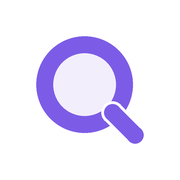
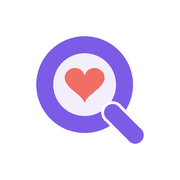
アイコンを、Q の輪の中にハート（Q とハートを組み合わせた形）に。横長のロゴはそのまま。読みこみに ?v=2

Changed region(s): [[0.3333, 0.3611, 0.5833, 0.5833]]

diff --git a/index.html b/index.html
@@ -21,9 +21,9 @@
 <meta name="theme-color" content="#f5f4f9" media="(prefers-color-scheme: light)">
 <meta name="theme-color" content="#16151a" media="(prefers-color-scheme: dark)">
 <!-- アイコン・ロゴ・OGP は おくるん（q-oqrn）の shared/qlove/ からコピーしたもの -->
-<link rel="icon" href="icon.svg" type="image/svg+xml">
-<link rel="icon" href="icon-32.png" type="image/png" sizes="32x32">
-<link rel="apple-touch-icon" href="apple-touch-icon.png">
+<link rel="icon" href="icon.svg?v=2" type="image/svg+xml">
+<link rel="icon" href="icon-32.png?v=2" type="image/png" sizes="32x32">
+<link rel="apple-touch-icon" href="apple-touch-icon.png?v=2">
 <link rel="preconnect" href="https://fonts.googleapis.com">
 <link href="https://fonts.googleapis.com/css2?family=M+PLUS+Rounded+1c:wght@400;700;800&display=swap" rel="stylesheet">
 <!-- Q キット（おくるんの共通部品）。Qlove の色はおくるんと同じ紫なので、ほぼそのまま -->
@@ -33,7 +33,7 @@
 <body>
 <main class="ls-page ls-stack">
   <header class="ls-brand">
-    <h1 class="ls-brand-name"><img class="ls-brand-icon" src="icon.svg" alt="" width="30" height="30">くらぶ</h1>
+    <h1 class="ls-brand-name"><img class="ls-brand-icon" src="icon.svg?v=2" alt="" width="30" height="30">くらぶ</h1>
     <picture>
       <source srcset="logo-dark.svg" media="(prefers-color-scheme: dark)">
       <img class="ls-brand-logo" src="logo.svg" alt="Qlove" width="78" height="28">
@@ -64,9 +64,9 @@
     <section class="club" id="club-sports"><h2 class="club-head">💪 たいいく部 〜taiiQ部〜</h2><p class="club-desc">練習・試合・記録を、チームや仲間と</p><ul class="q-list"><li class="q-card" style="--q: #C96A2D"><a class="q-main" href="https://liff.line.me/2009927582-2isjfmkk"><img src="https://katsuan.github.io/line-workout-share/icon.svg" alt="" width="48" height="48" loading="lazy"><span class="q-body"><span class="q-name">キロっく <small>kiloQ</small><span class="q-also">兼部</span></span><span class="q-copy">キロを刻んで、記録を積もう</span><span class="q-lead">筋トレの記録を、カードにして送れる</span></span></a></li><li class="q-card" style="--q: #2E8B4A"><a class="q-main" href="https://katsuan.github.io/soccer/"><img src="https://katsuan.github.io/soccer/icon.svg" alt="" width="48" height="48" loading="lazy"><span class="q-body"><span class="q-name">さくせん盤 <small>SAQSEN</small></span><span class="q-copy">描いて、伝えて、勝ちにいこう</span><span class="q-lead">スタメン・作戦・試合結果を、カードにして送れる</span></span></a><a class="q-next" href="https://katsuan.github.io/score-recorder/"><span aria-hidden="true">→</span><span>つぎに <b>ろくが</b>：試合を、得点板つきで録画する</span></a></li><li class="q-card" style="--q: #E53935"><a class="q-main" href="https://katsuan.github.io/score-recorder/"><img src="https://katsuan.github.io/score-recorder/icon.svg" alt="" width="48" height="48" loading="lazy"><span class="q-body"><span class="q-name">ろくが <small>RoQga</small></span><span class="q-copy">撮った試合も、取った点も、とっておき</span><span class="q-lead">試合をスマホで撮りながら、得点板も動画に残せる</span></span></a><a class="q-next" href="https://katsuan.github.io/soccer/"><span aria-hidden="true">→</span><span>つぎに <b>さくせん盤</b>：スタメンや試合結果を、カードで送る</span></a></li></ul></section>
     <section class="club" id="club-habit"><h2 class="club-head">🔥 けいぞく部 〜keizoQ部〜</h2><p class="club-desc">毎日の「できた」を、つみかさね</p><ul class="q-list"><li class="q-card" style="--q: #EBAA00"><a class="q-main" href="https://katsuan.github.io/pomodoro/"><img src="https://katsuan.github.io/pomodoro/icon.svg" alt="" width="48" height="48" loading="lazy"><span class="q-body"><span class="q-name">ぽもくる <small>PomoQ</small></span><span class="q-copy">集中、休憩、くるくる回そう</span><span class="q-lead">集中と休憩を、くるくるくり返すタイマー</span></span></a></li><li class="q-card" style="--q: #2F80D8"><a class="q-main" href="https://katsuan.github.io/tuzuq/"><img src="https://katsuan.github.io/tuzuq/icon.svg" alt="" width="48" height="48" loading="lazy"><span class="q-body"><span class="q-name">つづく <small>TuZuQ</small></span><span class="q-copy">きょうのできたが、あしたにつづく</span><span class="q-lead">できた日に丸を押すだけの、習慣カレンダー</span></span></a><a class="q-next" href="https://liff.line.me/2009927582-2isjfmkk"><span aria-hidden="true">→</span><span>つぎに <b>キロっく</b>：筋トレを記録すると、つづくで自動でチェック</span></a></li><li class="q-card" style="--q: #EC8A16"><a class="q-main" href="https://katsuan.github.io/shoquji/"><img src="https://katsuan.github.io/shoquji/icon.svg" alt="" width="48" height="48" loading="lazy"><span class="q-body"><span class="q-name">しょくじ <small>ShoQuji</small></span><span class="q-copy">食べたら、ぱっと残そう</span><span class="q-lead">食べたものとカロリー・PFC を、さっと記録</span></span></a><a class="q-next" href="https://katsuan.github.io/tuzuq/"><span aria-hidden="true">→</span><span>つぎに <b>つづく</b>：記録した日に、つづくで自動でチェック</span></a></li><li class="q-card" style="--q: #C96A2D"><a class="q-main" href="https://liff.line.me/2009927582-2isjfmkk"><img src="https://katsuan.github.io/line-workout-share/icon.svg" alt="" width="48" height="48" loading="lazy"><span class="q-body"><span class="q-name">キロっく <small>kiloQ</small><span class="q-also">兼部</span></span><span class="q-copy">キロを刻んで、記録を積もう</span><span class="q-lead">筋トレの記録を、カードにして送れる</span></span></a></li></ul></section>
     <section class="club" id="club-family"><h2 class="club-head">🏠 かぞく部 〜kazoQ部〜</h2><p class="club-desc">家族の記念日と、育ちの記録に</p><ul class="q-list"><li class="q-card" style="--q: #6C47FF"><a class="q-main" href="https://katsuan.github.io/countdown/create.html"><img src="https://katsuan.github.io/countdown/icon.svg" alt="" width="48" height="48" loading="lazy"><span class="q-body"><span class="q-name">くろのす <small>Qronos</small></span><span class="q-copy">指折り数えて、大切な日を待とう</span><span class="q-lead">記念日まで「あと何日？」をいつでも</span></span></a><a class="q-next" href="https://katsuan.github.io/suqsuq/"><span aria-hidden="true">→</span><span>つぎに <b>すくすく</b>：生まれた日・記念日から◯日目を、写真に入れて残す</span></a></li><li class="q-card" style="--q: #E9735A"><a class="q-main" href="https://katsuan.github.io/suqsuq/"><img src="https://katsuan.github.io/suqsuq/icon.svg" alt="" width="48" height="48" loading="lazy"><span class="q-body"><span class="q-name">すくすく <small>SuQSuQ</small></span><span class="q-copy">すくすく、まいにちが記念日</span><span class="q-lead">生後◯日・妊娠◯週・記念日から◯日を、写真や動画に入れて残せる</span></span></a><a class="q-next" href="https://katsuan.github.io/countdown/create.html"><span aria-hidden="true">→</span><span>つぎに <b>くろのす</b>：誕生日や記念日まで「あと何日？」を数える</span></a></li><li class="q-card" style="--q: #9B7FD1"><a class="q-main" href="https://katsuan.github.io/gender-reveal/create.html"><img src="https://katsuan.github.io/gender-reveal/icon.svg" alt="" width="48" height="48" loading="lazy"><span class="q-body"><span class="q-name">ジェンダーリビール <small>BabyQ</small></span><span class="q-copy">赤ちゃんの秘密を、みんなの喜びに</span><span class="q-lead">赤ちゃんの性別を、プレゼントを開けて発表</span></span></a><a class="q-next" href="https://katsuan.github.io/countdown/create.html"><span aria-hidden="true">→</span><span>つぎに <b>くろのす</b>：生まれる日まで「あと何日？」を数える</span></a></li><li class="q-card" style="--q: #12A0B0"><a class="q-main" href="https://katsuan.github.io/yuqsaki/"><img src="https://katsuan.github.io/yuqsaki/icon.svg" alt="" width="48" height="48" loading="lazy"><span class="q-body"><span class="q-name">ゆくさき <small>YuQsaki</small></span><span class="q-copy">ゆく先を、ひとつのしおりに</span><span class="q-lead">予定・場所・持ち物を、1つのしおりに</span></span></a><a class="q-next" href="https://katsuan.github.io/countdown/create.html"><span aria-hidden="true">→</span><span>つぎに <b>くろのす</b>：出発の日まで「あと何日？」を数える</span></a></li></ul></section>
-    <section class="club" id="club-daily"><h2 class="club-head">👾 きたく部 〜kitaQ部〜</h2><p class="club-desc">ちょっとしたあそびと、毎日のおたのしみに</p><ul class="q-list"><li class="q-card" style="--q: #E23E4A"><a class="q-main" href="https://katsuan.github.io/qji/"><img src="https://katsuan.github.io/qji/icon.svg" alt="" width="48" height="48" loading="lazy"><span class="q-body"><span class="q-name">くじ <small>Qji</small></span><span class="q-copy">迷ったら、くじで決めよう</span><span class="q-lead">当番・順番・お題・罰ゲームを、その場で公平に</span></span></a><a class="q-next" href="https://katsuan.github.io/soccer/"><span aria-hidden="true">→</span><span>つぎに <b>さくせん盤</b>：チームが決まったら、スタメンを作って送る</span></a></li><li class="q-card" style="--q: #14542E"><a class="q-main" href="https://liff.line.me/2009927876-PcLT1IYA"><img src="https://katsuan.github.io/line-p2p-othello/assets/icon.svg" alt="" width="48" height="48" loading="lazy"><span class="q-body"><span class="q-name">ひっくり <small>HiQRi</small></span><span class="q-copy">ひっくり返せ、その一手</span><span class="q-lead">LINE の友だちと、石をひっくり返して対戦</span></span></a></li><li class="q-card" style="--q: #EBAA00"><a class="q-main" href="https://katsuan.github.io/soraqru/"><img src="https://katsuan.github.io/soraqru/icon.svg" alt="" width="48" height="48" loading="lazy"><span class="q-body"><span class="q-name">そらくる <small>SoraQru</small></span><span class="q-copy">空のごきげん、先どり</span><span class="q-lead">今日・明日の天気と、気圧の変化の目安をひと目で</span></span></a></li></ul></section>
+    <section class="club" id="club-daily"><h2 class="club-head">👾 きたく部 〜kitaQ部〜</h2><p class="club-desc">ちょっとしたあそびと、毎日のおたのしみに</p><ul class="q-list"><li class="q-card" style="--q: #E23E4A"><a class="q-main" href="https://katsuan.github.io/qji/"><img src="https://katsuan.github.io/qji/icon.svg" alt="" width="48" height="48" loading="lazy"><span class="q-body"><span class="q-name">くじ <small>Qji</small></span><span class="q-copy">迷ったら、くじで決めよう</span><span class="q-lead">当番・順番・お題・罰ゲームを、その場で公平に</span></span></a><a class="q-next" href="https://katsuan.github.io/soccer/"><span aria-hidden="true">→</span><span>つぎに <b>さくせん盤</b>：チームが決まったら、スタメンを作って送る</span></a></li><li class="q-card" style="--q: #14542E"><a class="q-main" href="https://liff.line.me/2009927876-PcLT1IYA"><img src="https://katsuan.github.io/line-p2p-othello/assets/icon.svg" alt="" width="48" height="48" loading="lazy"><span class="q-body"><span class="q-name">ひっくり <small>HiQRi</small></span><span class="q-copy">ひっくり返せ、その一手</span><span class="q-lead">LINE の友だちと、石をひっくり返して対戦</span></span></a></li><li class="q-card" style="--q: #EBAA00"><a class="q-main" href="https://katsuan.github.io/soraqru/"><img src="https://katsuan.github.io/soraqru/icon.svg" alt="" width="48" height="48" loading="lazy"><span class="q-body"><span class="q-name">そらくる <small>SoraQru</small></span><span class="q-copy">空のごきげん、先どり</span><span class="q-lead">今日・明日の天気と、気圧の変化の目安をひと目で</span></span></a><a class="q-next" href="https://katsuan.github.io/yuqsaki/"><span aria-hidden="true">→</span><span>つぎに <b>ゆくさき</b>：おでかけの予定をしおりに。行き先の天気もすぐ見られる</span></a></li></ul></section>
   </div>
-  <script type="application/json" id="hubSnapshot">{"title":"くらぶ 〜Qlove〜","logo":{"src":"./shared/qlove/logo.svg","dark":"./shared/qlove/logo-dark.svg","caption":"くらぶ"},"color":"#6C47FF","lead":"くらしの部室","groups":[{"key":"sports","label":"💪 たいいく部 〜taiiQ部〜","desc":"練習・試合・記録を、チームや仲間と"},{"key":"habit","label":"🔥 けいぞく部 〜keizoQ部〜","desc":"毎日の「できた」を、つみかさね"},{"key":"family","label":"🏠 かぞく部 〜kazoQ部〜","desc":"家族の記念日と、育ちの記録に"},{"key":"daily","label":"👾 きたく部 〜kitaQ部〜","desc":"ちょっとしたあそびと、毎日のおたのしみに"}],"items":[{"key":"kiloq","icon":"🏋","appIcon":"https://katsuan.github.io/line-workout-share/icon.svg","name":"キロっく","en":"kiloQ","copy":"キロを刻んで、記録を積もう","desc":"筋トレの記録をカードで送る","url":"https://liff.line.me/2009927582-2isjfmkk","color":"#C96A2D","ogp":"https://katsuan.github.io/line-workout-share/ogp.png?v=20261019","lead":"筋トレの記録を、カードにして送れる","intro":"種目・重さ・回数を入れるだけ。推定 1RM も出て、よくやるメニューは保存しておけます。","group":"sports","also":["habit"]},{"key":"qji","icon":"🎟","appIcon":"https://katsuan.github.io/qji/icon.svg","name":"くじ","en":"Qji","copy":"迷ったら、くじで決めよう","desc":"くじ・あみだ・お題を決める","url":"https://katsuan.github.io/qji/","color":"#E23E4A","ogp":"https://katsuan.github.io/qji/ogp.png?v=20261019","lead":"当番・順番・お題・罰ゲームを、その場で公平に","intro":"くじ引き・あみだくじ・ルーレット・数字・会話のお題・罰ゲームを決めて、結果を LINE にカードで送れます。","group":"daily","next":{"key":"saqsen","why":"チームが決まったら、スタメンを作って送る"}},{"key":"saqsen","icon":"⚽","appIcon":"https://katsuan.github.io/soccer/icon.svg","name":"さくせん盤","en":"SAQSEN","copy":"描いて、伝えて、勝ちにいこう","desc":"スタメン・作戦・結果を送る","url":"https://katsuan.github.io/soccer/","color":"#2E8B4A","ogp":"https://katsuan.github.io/soccer/ogp.png?v=20261019","lead":"スタメン・作戦・試合結果を、カードにして送れる","intro":"選手をピッチに並べて作戦盤に。スタメン発表や試合結果も、LINE のカードにしてチームに送れます。","group":"sports","next":{"key":"roqga","why":"試合を、得点板つきで録画する"}},{"key":"roqga","icon":"📹","appIcon":"https://katsuan.github.io/score-recorder/icon.svg","name":"ろくが","en":"RoQga","copy":"撮った試合も、取った点も、とっておき","desc":"得点板つきで試合を録画","url":"https://katsuan.github.io/score-recorder/","color":"#2E8B4A","qColor":"#E53935","ogp":"https://katsuan.github.io/score-recorder/ogp.png?v=20261022b","lead":"試合をスマホで撮りながら、得点板も動画に残せる","intro":"チーム名とスコアを映像に重ねて録画。LINE で送れるよう5分ごとに区切れて、動画は端末にだけ保存します。","group":"sports","next":{"key":"saqsen","why":"スタメンや試合結果を、カードで送る"}},{"key":"pomoq","icon":"🍅","appIcon":"https://katsuan.github.io/pomodoro/icon.svg","name":"ぽもくる","en":"PomoQ","copy":"集中、休憩、くるくる回そう","desc":"集中と休憩をくり返すタイマー","url":"https://katsuan.github.io/pomodoro/","color":"#4D4D4D","qColor":"#EBAA00","ogp":"https://katsuan.github.io/pomodoro/ogp.png?v=20261019","lead":"集中と休憩を、くるくるくり返すタイマー","intro":"時計の時刻に合わせて、作業 25 分・休憩 5 分をくり返すポモドーロタイマーです。","group":"habit"},{"key":"hiqri","icon":"👾","appIcon":"https://katsuan.github.io/line-p2p-othello/assets/icon.svg","name":"ひっくり","en":"HiQRi","copy":"ひっくり返せ、その一手","desc":"友だちとオセロで対戦","url":"https://liff.line.me/2009927876-PcLT1IYA","color":"#14542E","ogp":"https://katsuan.github.io/line-p2p-othello/assets/ogp.png?v=20261019","lead":"LINE の友だちと、石をひっくり返して対戦","intro":"LINE で招待してそれぞれの端末で通信対戦。COM との練習や、問題に正解すると石を置ける教養モードも。","group":"daily"},{"key":"tuzuq","icon":"✅","appIcon":"https://katsuan.github.io/tuzuq/icon.svg","name":"つづく","en":"TuZuQ","copy":"きょうのできたが、あしたにつづく","desc":"できた日に丸を押す習慣カレンダー","url":"https://katsuan.github.io/tuzuq/","line":"https://liff.line.me/2012187502-o87l8Esu","lineWhy":"自分の記録ボット（GAS）とつなぐと、チェックが自分の Google シートにも残ります。ブラウザ版だけの記録は、履歴を消したり機種を変えたりすると消えることがあります","color":"#2F80D8","ogp":"https://katsuan.github.io/tuzuq/ogp.png?v=5","lead":"できた日に丸を押すだけの、習慣カレンダー","intro":"何日つづいたか・ひと月のチェックがひと目でわかります。食事や筋トレの記録（しょくじ・キロっく）とつなぐと、記録した日に自動でチェック。自分の記録ボットや GitHub の草にもつなげられます。","group":"habit","next":{"key":"kiloq","why":"筋トレを記録すると、つづくで自動でチェック"}},{"key":"shoquji","icon":"🍚","appIcon":"https://katsuan.github.io/shoquji/icon.svg","name":"しょくじ","en":"ShoQuji","copy":"食べたら、ぱっと残そう","desc":"食べたものとカロリーを記録する","url":"https://katsuan.github.io/shoquji/","line":"https://liff.line.me/2010088825-CulmmaFc","lineWhy":"食事記録ボットのシートにも残ります。ブラウザ版だけの記録は、履歴を消したり機種を変えたりすると消えることがあります","color":"#EC8A16","ogp":"https://katsuan.github.io/shoquji/ogp.png?v=4","lead":"食べたものとカロリー・PFC を、さっと記録","intro":"前に食べたものはボタンひとつで。1日の合計と1週間のふりかえりが見られて、カードにして送れます。","group":"habit","next":{"key":"tuzuq","why":"記録した日に、つづくで自動でチェック"}},{"key":"soraqru","icon":"🌤","appIcon":"https://katsuan.github.io/soraqru/icon.svg","name":"そらくる","en":"SoraQru","copy":"空のごきげん、先どり","desc":"今日・明日の天気と気圧の変化の目安","url":"https://katsuan.github.io/soraqru/","color":"#3A56D6","qColor":"#EBAA00","ogp":"https://katsuan.github.io/soraqru/ogp.png?v=1","lead":"今日・明日の天気と、気圧の変化の目安をひと目で","intro":"気圧が大きく変わる時間を、時間ごとの色の帯で。実家・職場など地点を切りかえて、LINE にカードで送れます。","group":"daily"},{"key":"qronos","icon":"⏳","appIcon":"https://katsuan.github.io/countdown/icon.svg","name":"くろのす","en":"Qronos","copy":"指折り数えて、大切な日を待とう","desc":"記念日まであと何日？を送る","url":"https://katsuan.github.io/countdown/create.html","color":"#6C47FF","ogp":"https://katsuan.github.io/countdown/ogp.png?v=20261019","lead":"記念日まで「あと何日？」をいつでも","intro":"誕生日・記念日・旅行の日までを数えるページを作って、LINE にカードで送れます。","group":"family","next":{"key":"suqsuq","why":"生まれた日・記念日から◯日目を、写真に入れて残す"}},{"key":"suqsuq","icon":"🌱","appIcon":"https://katsuan.github.io/suqsuq/icon.svg","name":"すくすく","en":"SuQSuQ","copy":"すくすく、まいにちが記念日","desc":"「生後◯日」「記念日から◯日」を写真に","url":"https://katsuan.github.io/suqsuq/","color":"#E9735A","ogp":"https://katsuan.github.io/suqsuq/ogp.png?v=20261023","lead":"生後◯日・妊娠◯週・記念日から◯日を、写真や動画に入れて残せる","intro":"カメラで撮るだけで「生まれて100日」の文字が入ります。文字の形やスタンプを選べて、節目はカレンダーでお知らせ。","group":"family","next":{"key":"qronos","why":"誕生日や記念日まで「あと何日？」を数える"}},{"key":"babyq","icon":"🐣","appIcon":"https://katsuan.github.io/gender-reveal/icon.svg","name":"ジェンダーリビール","short":"BabyQ","en":"BabyQ","copy":"赤ちゃんの秘密を、みんなの喜びに","desc":"赤ちゃんの性別をプレゼントで発表","url":"https://katsuan.github.io/gender-reveal/create.html","color":"#9B7FD1","ogp":"https://katsuan.github.io/gender-reveal/ogp-create.png?v=20261019","lead":"赤ちゃんの性別を、プレゼントを開けて発表","intro":"性別を選ぶだけで、家族に送れるドキドキの発表ページができます。","group":"family","next":{"key":"qronos","why":"生まれる日まで「あと何日？」を数える"}},{"key":"yuqsaki","icon":"🧳","appIcon":"https://katsuan.github.io/yuqsaki/icon.svg","name":"ゆくさき","en":"YuQsaki","copy":"ゆく先を、ひとつのしおりに","desc":"旅とおでかけのしおりを作る","url":"https://katsuan.github.io/yuqsaki/","color":"#12A0B0","ogp":"https://katsuan.github.io/yuqsaki/ogp.png?v=1","lead":"予定・場所・持ち物を、1つのしおりに","intro":"日ごとの予定と持ち物をまとめて、リンクで家族や友だちに渡せます。出発まで「あと◯日」も。","group":"family","next":{"key":"qronos","why":"出発の日まで「あと何日？」を数える"}}]}</script>
+  <script type="application/json" id="hubSnapshot">{"title":"くらぶ 〜Qlove〜","logo":{"src":"./shared/qlove/logo.svg","dark":"./shared/qlove/logo-dark.svg","caption":"くらぶ"},"color":"#6C47FF","lead":"くらしの部室","groups":[{"key":"sports","label":"💪 たいいく部 〜taiiQ部〜","desc":"練習・試合・記録を、チームや仲間と"},{"key":"habit","label":"🔥 けいぞく部 〜keizoQ部〜","desc":"毎日の「できた」を、つみかさね"},{"key":"family","label":"🏠 かぞく部 〜kazoQ部〜","desc":"家族の記念日と、育ちの記録に"},{"key":"daily","label":"👾 きたく部 〜kitaQ部〜","desc":"ちょっとしたあそびと、毎日のおたのしみに"}],"items":[{"key":"kiloq","icon":"🏋","appIcon":"https://katsuan.github.io/line-workout-share/icon.svg","name":"キロっく","en":"kiloQ","copy":"キロを刻んで、記録を積もう","desc":"筋トレの記録をカードで送る","url":"https://liff.line.me/2009927582-2isjfmkk","color":"#C96A2D","ogp":"https://katsuan.github.io/line-workout-share/ogp.png?v=20261019","lead":"筋トレの記録を、カードにして送れる","intro":"種目・重さ・回数を入れるだけ。推定 1RM も出て、よくやるメニューは保存しておけます。","group":"sports","also":["habit"]},{"key":"qji","icon":"🎟","appIcon":"https://katsuan.github.io/qji/icon.svg","name":"くじ","en":"Qji","copy":"迷ったら、くじで決めよう","desc":"くじ・あみだ・お題を決める","url":"https://katsuan.github.io/qji/","color":"#E23E4A","ogp":"https://katsuan.github.io/qji/ogp.png?v=20261019","lead":"当番・順番・お題・罰ゲームを、その場で公平に","intro":"くじ引き・あみだくじ・ルーレット・数字・会話のお題・罰ゲームを決めて、結果を LINE にカードで送れます。","group":"daily","next":{"key":"saqsen","why":"チームが決まったら、スタメンを作って送る"}},{"key":"saqsen","icon":"⚽","appIcon":"https://katsuan.github.io/soccer/icon.svg","name":"さくせん盤","en":"SAQSEN","copy":"描いて、伝えて、勝ちにいこう","desc":"スタメン・作戦・結果を送る","url":"https://katsuan.github.io/soccer/","color":"#2E8B4A","ogp":"https://katsuan.github.io/soccer/ogp.png?v=20261019","lead":"スタメン・作戦・試合結果を、カードにして送れる","intro":"選手をピッチに並べて作戦盤に。スタメン発表や試合結果も、LINE のカードにしてチームに送れます。","group":"sports","next":{"key":"roqga","why":"試合を、得点板つきで録画する"}},{"key":"roqga","icon":"📹","appIcon":"https://katsuan.github.io/score-recorder/icon.svg","name":"ろくが","en":"RoQga","copy":"撮った試合も、取った点も、とっておき","desc":"得点板つきで試合を録画","url":"https://katsuan.github.io/score-recorder/","color":"#2E8B4A","qColor":"#E53935","ogp":"https://katsuan.github.io/score-recorder/ogp.png?v=20261022b","lead":"試合をスマホで撮りながら、得点板も動画に残せる","intro":"チーム名とスコアを映像に重ねて録画。LINE で送れるよう5分ごとに区切れて、動画は端末にだけ保存します。","group":"sports","next":{"key":"saqsen","why":"スタメンや試合結果を、カードで送る"}},{"key":"pomoq","icon":"🍅","appIcon":"https://katsuan.github.io/pomodoro/icon.svg","name":"ぽもくる","en":"PomoQ","copy":"集中、休憩、くるくる回そう","desc":"集中と休憩をくり返すタイマー","url":"https://katsuan.github.io/pomodoro/","color":"#4D4D4D","qColor":"#EBAA00","ogp":"https://katsuan.github.io/pomodoro/ogp.png?v=20261019","lead":"集中と休憩を、くるくるくり返すタイマー","intro":"時計の時刻に合わせて、作業 25 分・休憩 5 分をくり返すポモドーロタイマーです。","group":"habit"},{"key":"hiqri","icon":"👾","appIcon":"https://katsuan.github.io/line-p2p-othello/assets/icon.svg","name":"ひっくり","en":"HiQRi","copy":"ひっくり返せ、その一手","desc":"友だちとオセロで対戦","url":"https://liff.line.me/2009927876-PcLT1IYA","color":"#14542E","ogp":"https://katsuan.github.io/line-p2p-othello/assets/ogp.png?v=20261019","lead":"LINE の友だちと、石をひっくり返して対戦","intro":"LINE で招待してそれぞれの端末で通信対戦。COM との練習や、問題に正解すると石を置ける教養モードも。","group":"daily"},{"key":"tuzuq","icon":"✅","appIcon":"https://katsuan.github.io/tuzuq/icon.svg","name":"つづく","en":"TuZuQ","copy":"きょうのできたが、あしたにつづく","desc":"できた日に丸を押す習慣カレンダー","url":"https://katsuan.github.io/tuzuq/","line":"https://liff.line.me/2012187502-o87l8Esu","lineWhy":"自分の記録ボット（GAS）とつなぐと、チェックが自分の Google シートにも残ります。ブラウザ版だけの記録は、履歴を消したり機種を変えたりすると消えることがあります","color":"#2F80D8","ogp":"https://katsuan.github.io/tuzuq/ogp.png?v=5","lead":"できた日に丸を押すだけの、習慣カレンダー","intro":"何日つづいたか・ひと月のチェックがひと目でわかります。食事や筋トレの記録（しょくじ・キロっく）とつなぐと、記録した日に自動でチェック。自分の記録ボットや GitHub の草にもつなげられます。","group":"habit","next":{"key":"kiloq","why":"筋トレを記録すると、つづくで自動でチェック"}},{"key":"shoquji","icon":"🍚","appIcon":"https://katsuan.github.io/shoquji/icon.svg","name":"しょくじ","en":"ShoQuji","copy":"食べたら、ぱっと残そう","desc":"食べたものとカロリーを記録する","url":"https://katsuan.github.io/shoquji/","line":"https://liff.line.me/2010088825-CulmmaFc","lineWhy":"食事記録ボットのシートにも残ります。ブラウザ版だけの記録は、履歴を消したり機種を変えたりすると消えることがあります","color":"#EC8A16","ogp":"https://katsuan.github.io/shoquji/ogp.png?v=4","lead":"食べたものとカロリー・PFC を、さっと記録","intro":"前に食べたものはボタンひとつで。1日の合計と1週間のふりかえりが見られて、カードにして送れます。","group":"habit","next":{"key":"tuzuq","why":"記録した日に、つづくで自動でチェック"}},{"key":"soraqru","icon":"🌤","appIcon":"https://katsuan.github.io/soraqru/icon.svg","name":"そらくる","en":"SoraQru","copy":"空のごきげん、先どり","desc":"今日・明日の天気と気圧の変化の目安","url":"https://katsuan.github.io/soraqru/","color":"#3A56D6","qColor":"#EBAA00","ogp":"https://katsuan.github.io/soraqru/ogp.png?v=1","lead":"今日・明日の天気と、気圧の変化の目安をひと目で","intro":"気圧が大きく変わる時間を、時間ごとの色の帯で。実家・職場など地点を切りかえて、LINE にカードで送れます。","group":"daily","next":{"key":"yuqsaki","why":"おでかけの予定をしおりに。行き先の天気もすぐ見られる"}},{"key":"qronos","icon":"⏳","appIcon":"https://katsuan.github.io/countdown/icon.svg","name":"くろのす","en":"Qronos","copy":"指折り数えて、大切な日を待とう","desc":"記念日まであと何日？を送る","url":"https://katsuan.github.io/countdown/create.html","color":"#6C47FF","ogp":"https://katsuan.github.io/countdown/ogp.png?v=20261019","lead":"記念日まで「あと何日？」をいつでも","intro":"誕生日・記念日・旅行の日までを数えるページを作って、LINE にカードで送れます。","group":"family","next":{"key":"suqsuq","why":"生まれた日・記念日から◯日目を、写真に入れて残す"}},{"key":"suqsuq","icon":"🌱","appIcon":"https://katsuan.github.io/suqsuq/icon.svg","name":"すくすく","en":"SuQSuQ","copy":"すくすく、まいにちが記念日","desc":"「生後◯日」「記念日から◯日」を写真に","url":"https://katsuan.github.io/suqsuq/","color":"#E9735A","ogp":"https://katsuan.github.io/suqsuq/ogp.png?v=20261023","lead":"生後◯日・妊娠◯週・記念日から◯日を、写真や動画に入れて残せる","intro":"カメラで撮るだけで「生まれて100日」の文字が入ります。文字の形やスタンプを選べて、節目はカレンダーでお知らせ。","group":"family","next":{"key":"qronos","why":"誕生日や記念日まで「あと何日？」を数える"}},{"key":"babyq","icon":"🐣","appIcon":"https://katsuan.github.io/gender-reveal/icon.svg","name":"ジェンダーリビール","short":"BabyQ","en":"BabyQ","copy":"赤ちゃんの秘密を、みんなの喜びに","desc":"赤ちゃんの性別をプレゼントで発表","url":"https://katsuan.github.io/gender-reveal/create.html","color":"#9B7FD1","ogp":"https://katsuan.github.io/gender-reveal/ogp-create.png?v=20261019","lead":"赤ちゃんの性別を、プレゼントを開けて発表","intro":"性別を選ぶだけで、家族に送れるドキドキの発表ページができます。","group":"family","next":{"key":"qronos","why":"生まれる日まで「あと何日？」を数える"}},{"key":"yuqsaki","icon":"🧳","appIcon":"https://katsuan.github.io/yuqsaki/icon.svg","name":"ゆくさき","en":"YuQsaki","copy":"ゆく先を、ひとつのしおりに","desc":"旅とおでかけのしおりを作る","url":"https://katsuan.github.io/yuqsaki/","color":"#12A0B0","ogp":"https://katsuan.github.io/yuqsaki/ogp.png?v=1","lead":"予定・場所・持ち物を、1つのしおりに","intro":"日ごとの予定と持ち物をまとめて、リンクで家族や友だちに渡せます。出発まで「あと◯日」も。","group":"family","next":{"key":"qronos","why":"出発の日まで「あと何日？」を数える"}}]}</script>
   <!-- qlove:end -->
 
   <footer class="foot">
